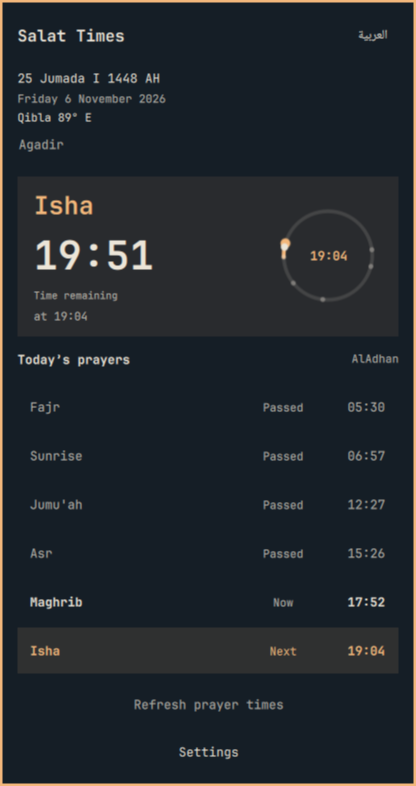
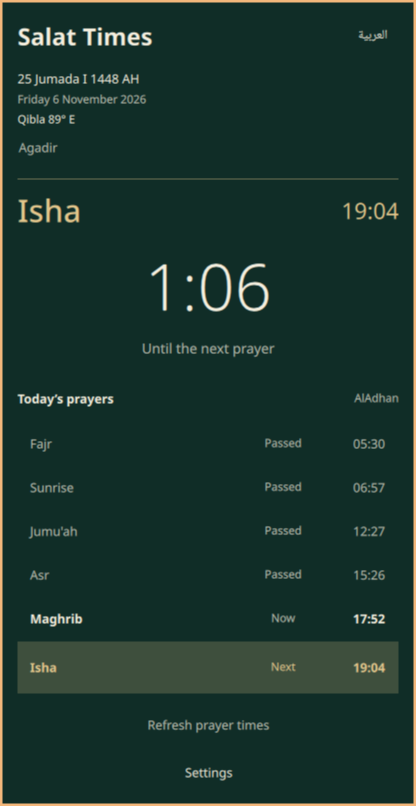
Publish Noor campaign cover, bilingual previews and worldwide setup documentation

diff --git a/DESIGN.md b/DESIGN.md
@@ -1,138 +1,140 @@
 ---
-name: Salat Times
-description: Theme-following native prayer timetable for Omarchy
+name: Salat Times · Noor
+description: A native prayer window in emerald, ivory and gold
 colors:
-  foreground: "bar ? bar.foreground : Color.foreground"
-  accent: "Color.accent"
-  muted: "Qt.rgba(root.contentForeground.r, root.contentForeground.g, root.contentForeground.b, 0.76)"
-  hero-surface: "Qt.rgba(root.accent.r, root.accent.g, root.accent.b, 0.09)"
-  next-surface: "Qt.rgba(root.accent.r, root.accent.g, root.accent.b, 0.12)"
+  background: 'root.noor ? "#102D27" : Color.popups.background'
+  foreground: 'root.noor ? "#F5EFDF" : (bar ? bar.foreground : Color.foreground)'
+  accent: 'root.noor ? "#E3C68C" : Color.accent'
+  muted: 'Qt.rgba(root.contentForeground.r, root.contentForeground.g, root.contentForeground.b, 0.76)'
+  hairline: 'Qt.rgba(root.accent.r, root.accent.g, root.accent.b, 0.45)'
+  next-surface: 'Qt.rgba(root.accent.r, root.accent.g, root.accent.b, root.salat && root.salat.imminent ? 0.22 : 0.12)'
 typography:
   display:
-    fontFamily: "bar ? bar.fontFamily : Style.font.family"
-    fontSize: "Style.space(38)"
-    fontWeight: "Font.DemiBold"
+    fontFamily: '"Noto Sans"'
+    fontSize: 'Style.space(62)'
+    fontWeight: 'Font.Light'
   prayer-name:
-    fontFamily: "bar ? bar.fontFamily : Style.font.family"
-    fontSize: "Style.space(24)"
-    fontWeight: "Font.Bold"
+    fontFamily: 'root.arabic ? "Noto Kufi Arabic" : "Noto Sans"'
+    fontSize: 'Style.space(30)'
+    fontWeight: 'Font.DemiBold'
+  prayer-start:
+    fontFamily: '"Noto Sans"'
+    fontSize: 'Style.space(22)'
   heading:
-    fontFamily: "bar ? bar.fontFamily : Style.font.family"
-    fontSize: "Style.font.heading"
-    fontWeight: "Font.Bold"
+    fontFamily: 'root.arabic ? "Noto Kufi Arabic" : "Noto Sans"'
+    fontSize: 'Style.space(23)'
+    fontWeight: 'Font.Bold'
   body:
-    fontFamily: "bar ? bar.fontFamily : Style.font.family"
-    fontSize: "arabic ? Math.max(Style.font.body, Style.space(14)) : Style.font.body"
+    fontFamily: 'root.arabic ? "Noto Sans Arabic" : "Noto Sans"'
+    fontSize: 'root.arabic ? Math.max(Style.font.body, Style.space(15)) : Style.font.body'
   body-small:
-    fontFamily: "bar ? bar.fontFamily : Style.font.family"
-    fontSize: "arabic ? Math.max(Style.font.bodySmall, Style.space(12)) : Style.font.bodySmall"
-  caption:
-    fontFamily: "bar ? bar.fontFamily : Style.font.family"
-    fontSize: "Style.font.caption"
+    fontFamily: 'root.arabic ? "Noto Sans Arabic" : "Noto Sans"'
+    fontSize: 'root.arabic ? Math.max(Style.font.bodySmall, Style.space(12)) : Style.font.bodySmall'
+  countdown-caption:
+    fontFamily: 'root.arabic ? "Noto Sans Arabic" : "Noto Sans"'
+    fontSize: 'Style.space(13)'
 rounded:
-  row: "Style.cornerRadius"
+  row: 'Style.cornerRadius'
 spacing:
-  tight: "Style.space(2)"
-  inline: "Style.space(4)"
-  control: "Style.space(6)"
-  group: "Style.space(8)"
-  row: "Style.space(10)"
-  section: "Style.space(12)"
-  stack: "Style.space(14)"
-  inset: "Style.space(16)"
+  tight: 'Style.space(2)'
+  inline: 'Style.space(4)'
+  control: 'Style.space(6)'
+  group: 'Style.space(8)'
+  row: 'Style.space(10)'
+  section: 'Style.space(12)'
+  stack: 'Style.space(14)'
 components:
-  next-prayer-surface:
-    backgroundColor: "{colors.hero-surface}"
-    rounded: "{rounded.row}"
-    height: "Style.space(154)"
-    padding: "Style.space(16)"
   prayer-row:
-    textColor: "{colors.foreground}"
-    rounded: "{rounded.row}"
-    height: "Style.space(44)"
-    padding: "0 Style.space(12)"
+    textColor: '{colors.foreground}'
+    rounded: '{rounded.row}'
+    height: 'Style.space(40)'
+    padding: '0 Style.space(12)'
   prayer-row-next:
-    backgroundColor: "{colors.next-surface}"
-    textColor: "{colors.accent}"
-    rounded: "{rounded.row}"
-    height: "Style.space(44)"
-    padding: "0 Style.space(12)"
-  day-dial:
-    size: "Style.space(104)"
-  stepper-value:
-    width: "Style.space(36)"
-    height: "Style.space(22)"
+    backgroundColor: '{colors.next-surface}'
+    textColor: '{colors.accent}'
+    rounded: '{rounded.row}'
+    height: 'Style.space(50)'
+    padding: '0 Style.space(12)'
 ---
 
 # Design System: Salat Times
 
 ## Overview
 
-**Creative North Star: "The daily prayer instrument"**
+**Creative North Star: "A moment of light"**
 
-A compact native prayer timetable that belongs to the current Omarchy desktop. The next prayer and explicit time remaining lead inside a tonal rectangle; a small adjacent day ring provides context. Its arc represents the current prayer window. The theme supplies the font, foreground, surface, and accent.
+Noor expresses the prayer window through generous numerals, intentional Arabic typography and a clear timetable. Deep emerald grounds warm ivory text; brass gold identifies the next prayer and its start. The centered light countdown is the primary answer, with a short caption explaining its meaning.
+
+The implementation is native Qt Quick / Quickshell on Omarchy. Noor is the persisted default appearance; System colors are an explicit alternative. Campaign direction uses a sculptural mihrab and sunlight, separate from the working interface. The user rejected the former ring and generic screenshot-on-mosque cover.
 
 **Key Characteristics:**
 
-- Theme-bound native typography and color
-- Aligned times with explicit next-prayer emphasis
-- Flat tonal surfaces and restrained motion
-
-These tokens are native QML expressions, evaluated by Omarchy/Quickshell. They are intentionally not CSS literals. `Style.space` and `Style.duration` retain desktop scale and motion preferences; their arguments are base logical units, not resolved device pixels. `PRODUCT.md` records the approved direction; `.impeccable/salat-surface.md` records the surface composition.
+- Typographic hierarchy with distinct Arabic heading and body families
+- Emerald, ivory and gold by default; optional live System colors
+- Clear aligned timetable with a taller next-prayer row
+- Flat native surfaces and restrained motion
 
 ## Colors
 
 ### Primary
 
-The live accent marks the next prayer name, next row, elapsed day arc, and next dial point. The next-prayer surface uses a quiet accent wash; the timetable’s next row uses a stronger wash that intensifies when prayer is imminent.
+**Brass gold** marks the next prayer, exact start, divider and next timetable row. The selected row uses a translucent wash that intensifies when prayer is imminent.
 
 ### Neutral
 
-Foreground follows the hosting bar with the Commons fallback. Muted foreground identifies dates, source, secondary labels, and helper copy. The panel surface and shared-control states belong to `qs.Ui`; retain their theme bindings rather than extracting a snapshot palette.
+**Deep emerald** is the default panel ground; **warm ivory** is the reading foreground. Muted foreground carries secondary dates, source, helper copy and passed prayers. Country and quick-city popups explicitly bind their background to the panel and their border to the accent.
 
-**The Theme Rule.** Preserve dynamic theme expressions; a screenshot’s colors are evidence of one theme, not a new palette.
+**The Appearance Rule.** Preserve the Noor/System conditional bindings. Noor is an authored palette; System mode evaluates the current Omarchy colors instead of a screenshot palette.
 
 ## Typography
 
-Use the hosting bar’s font family with `Style.font.family` as fallback. The countdown uses the display role, horizontally fits, and may shrink to `Style.space(22)`. The prayer name, heading, current and next timetable rows, and dial time are bold. The explicit “Time remaining” caption explains the countdown; exact start time sits beneath it. Standard body weights remain native defaults. Arabic body and small text have the documented minimum sizes; captions retain `Style.font.caption`.
+Arabic headings use Noto Kufi Arabic and body labels use Noto Sans Arabic. English uses Noto Sans; countdown, exact start and timetable numerals always use Noto Sans. The bar uses Noto Sans Arabic in Arabic and the host bar family in English.
 
-`PlainLabel` explicitly uses `Text.PlainText` and disables mirroring. Apply reading alignment to language-bearing labels; preserve unmirrored countdown, dial time, and right-aligned timetable numerals. No custom line height, tracking, or tabular-number feature is defined.
+The display countdown is light and centered, with horizontal fit down to `Style.space(34)`. The next-prayer name is demibold; the panel title is bold. The caption reads “Until the next prayer” with a tomorrow qualifier when applicable. Current and next timetable names and times are bold; other rows retain native default weights. Arabic body and small-text minimum sizes are recorded in frontmatter. Native caption and smaller helper styles continue to use `Style.font.caption` and `Style.font.bodySmall` where implemented.
+
+**The Numeric Rule.** Keep schedule numerals right-aligned and unmirrored; apply reading alignment to language-bearing labels. Do not substitute a decorative clock face for the countdown.
 
 ## Layout
 
-`KeyboardPanel` fits a preferred content width of `Style.space(400)` and fits height to the available screen. The column uses stack spacing; overview uses the same rhythm. Header and settings sections use section spacing. Vertical scrolling appears only when content overflows; horizontal scrolling is disabled.
+`KeyboardPanel` prefers `Style.space(400)` content width and fits height to the available screen. Vertical scrolling appears on overflow; horizontal scrolling is disabled. `Style.space` arguments are logical base units, not fixed physical pixels or web breakpoints.
 
-The next-prayer surface is a `Style.space(154)` high rounded rectangle. A row with inset spacing places the prayer name, countdown, “Time remaining” caption, and exact start beside a `Style.space(104)` day dial. The hero row deliberately disables mirroring; the dial center shows the exact start. Schedule rows use tight spacing, horizontal section padding, row gaps, a `Style.space(64)` state column, and a fixed `Style.space(56)` time column. Names elide before times. Qibla sits with the date. A Ramadan suhoor or iftar line appears only in that month. A full-width refresh action follows the timetable and any refresh error; its label reports fetching and it is disabled offline or while fetching. Settings replace the overview and retain the header and settings action. Settings use worldwide city search with searching, no-match and connection feedback; a Hijri calendar stepper permits ±2 days. Persistent latitude and longitude labels sit over equal-width unmirrored fields, followed by a validated Apply coordinates action that works offline and a desktop-timezone note.
+The first view stacks title/language, Hijri and Gregorian dates, Qibla and location, then the typographic prayer window. A one-unit gold hairline precedes a name/start row. The centered countdown and explanatory caption follow, then today’s six timetable entries, source, refresh and settings actions. The hero has no card fill, dial or ring. Schedule names elide before the fixed `Style.space(64)` state and `Style.space(56)` time columns.
+
+Settings replace the overview while retaining title and settings action. Worldwide setup leads with country and offline quick-city selectors, followed by method suggestions and manual search. Morocco controls appear only when the country filter is empty or MA. Lower sections retain Hijri adjustment, coordinates, calculation and reminders.
 
 ## Elevation & Depth
 
-Local content is flat and tone-separated. No local shadow or glow is defined. Panel framing, elevation, native focus, hover, and selected-control treatment are inherited from `qs.Ui`, not recreated here.
+Local content is flat. The hairline and translucent next-row fill organize information without local shadows or glow. Native panel framing, focus, hover and control states belong to `qs.Ui`. The background rectangle extends across the panel padding. Country and city dropdown popups carry matching surface and accent border bindings.
 
 ## Shapes
 
-Timetable highlights follow `Style.cornerRadius`. The day dial is a true circle: radius is half its smaller dimension minus `Style.space(10)`; stroke is `Style.space(3)`. Its neutral track uses foreground alpha 0.14. Normal points use alpha 0.8, sunrise 0.5; next and ordinary point radii are `Style.space(4.5)` and `Style.space(2.5)`, with a `Style.space(3)` current-position point.
+Timetable highlights follow `Style.cornerRadius`; ordinary rows are compact and the next row is taller. The prayer window is an open typographic composition separated by a straight hairline. There is no circular visual component.
 
 ## Components
 
-- **Prayer rows:** six aligned timetable entries; current and next use bold name/time; next additionally uses accent and tonal fill. A fixed state column shows the model’s localized status label. Passed rows use muted text. The next fill changes from alpha 0.12 to 0.22 when imminent. The source label remains visible beside the schedule heading.
-- **Next-prayer surface:** flat accent wash, native rounded corners, large countdown with horizontal fit and explicit caption. It carries the primary answer without waiting for motion.
-- **DayDial:** actual 24-hour positions, clockwise from midnight at the top. Center shows the next start time; elapsed arc follows the current prayer window. Repaint only on data, size, or theme changes; no animation timer.
-- **Native controls:** language and settings use `Ui.Button`; settings reuse `Toggle`, `SearchableDropdown`, `Dropdown`, `ButtonGroup`, `TextField`, and `PanelSectionHeader` from `qs.Ui`. Preserve shared interaction styling and focus behavior. Opening settings focuses its first toggle; closing restores panel keyboard focus.
-- **StepperRow:** two focusable `PanelActionButton` controls surround a centered bold body-size value; inline spacing. Positive correction displays an explicit plus sign.
-- **BarWidget:** shared `WidgetButton`, horizontal margin and vertical padding both 8.75. Imminent prayer sets its native active state. Left click opens the panel, right cycles style, middle switches language.
+- **Prayer window:** gold next name and exact start above the large light countdown; centered explanatory caption beneath. Data is visible immediately when the panel opens.
+- **Prayer rows:** six aligned entries with localized model status. Next uses accent, bold text, taller height and tonal fill; current uses bold text; passed rows use muted text. A preparation label replaces an empty timetable.
+- **Refresh:** full-width native button reports fetching, disables while fetching or offline, and sits after any refresh error.
+- **Worldwide location:** searchable 249-country dataset and 23 offline quick-city presets localized in English and Arabic. Country selection filters presets and subsequent online search. Selecting a preset commits coordinates and localized city/country text. Regional-method suggestions are enabled by default; choosing a method manually disables automatic selection. Online search reports searching, no matches and connection failure, with keyboard selection and Save/Cancel actions.
+- **Contextual Habous:** section, official-source toggle and searchable Habous cities are scoped to empty/MA country filters; city selection also depends on Habous being enabled.
+- **Hijri and coordinates:** ±2-day stepper with civil-calendar explanation; persistent latitude and longitude labels over equal-width unmirrored fields, validated offline Apply coordinates action, and desktop-timezone note.
+- **Native settings:** reuse `Button`, `Toggle`, `SearchableDropdown`, `Dropdown`, `ButtonGroup`, `TextField`, `PanelSectionHeader` and `StepperRow`. Shared interaction styling remains native. Opening settings focuses the online toggle; closing restores panel keyboard focus.
+- **Bar widget:** shared `WidgetButton` with horizontal margin and vertical padding of 8.75; imminent prayer uses its native active state. Left click opens, right cycles bar style, middle switches language. Tooltip carries next prayer, remaining time, Hijri date and location.
 
-Settings opacity has a `NumberAnimation` using `Style.duration(160)` and `Easing.OutCubic`; visibility and height switch with state, so do not assume a fully animated collapse. Data is immediately visible when the panel opens. Shared panel/control motion remains owned by Omarchy.
+Settings opacity uses `NumberAnimation` with `Style.duration(160)` and `Easing.OutCubic`. Visibility and height switch immediately; do not describe this as an animated drawer expansion.
 
 ## Do's and Don'ts
 
 ### Do:
 
-- Do preserve live Omarchy theme bindings.
-- Do keep Arabic labels readable and numeric times unmirrored.
-- Do show the next prayer and its exact time before settings.
+- Do preserve Noor as default and System colors as an explicit alternative.
+- Do use the implemented Arabic heading/body families and Noto Sans numerals.
+- Do keep country selection and offline city setup visible before contextual Morocco controls.
+- Do keep native Qt Quick controls and Omarchy scale bindings.
 
 ### Don't:
 
-- Don’t introduce a fixed palette or bundled display font.
-- Don’t add glow, ornamental clock motion, or a reveal that delays prayer data.
-- Don’t replace native shared controls with web approximations.
+- Don’t restore the rejected ring or a decorative clock face.
+- Don’t put screenshot-on-mosque artwork inside the working interface.
+- Don’t describe this native Linux panel as a web or mobile application.
+- Don’t add glow or a reveal that delays prayer information.

diff --git a/README.md b/README.md
@@ -1,6 +1,6 @@
 # Salat Times for Omarchy
 
-Prayer times for the Omarchy bar: the next salah, the time remaining, the Hijri date, qibla, and the full day. Habous tables, AlAdhan, and offline calculation stay available when you are online or not.
+Prayer times for the Omarchy bar, with the Noor emerald-and-ivory appearance, dedicated Arabic typography, and setup for 249 countries and territories: the next salah, time remaining, Hijri date, Qibla, and the full day. Habous tables, AlAdhan, and offline calculation stay available when you are online or not.
 
 ![Salat Times panel](preview.png)
 
@@ -29,13 +29,13 @@ omarchy bar move abdelhakim.salat --section centerEnd
 - Middle-click, the language button, or `A` switches Arabic and English.
 - `S` opens settings; Tab moves through settings controls and Escape returns to the timetable.
 - `E` edits a location; `M` cycles calculation methods; `B` cycles bar styles.
-- The countdown leads a compact next-prayer surface. A small day dial places prayer markers clockwise from midnight and traces the current prayer window.
+- The next-prayer name and exact start lead a large typographic countdown. There is no ring or clock dial. Noor uses deep emerald, warm ivory and gold; select System colors in Settings to follow the desktop palette.
 - Friday Dhuhr reads as Jumu'ah. Rows mark passed, now, and next. In Ramadan, a line gives suhoor or iftar.
 - Qibla is the bearing from your coordinates to the Kaaba.
 
 ## Settings
 
-Choose a Moroccan Habous city, use your Omarchy weather location, search worldwide with **city, country**, or enter latitude and longitude without a network connection. Selecting an international search result switches away from Habous. Search results identify the region and country; the location only changes when you select a result. All clocks and countdowns use your desktop timezone, including when you explore a location abroad. Change your system timezone when travelling. Calculation methods include Morocco, MWL, Egypt, ISNA, Makkah, Karachi, Tehran, Jafari, Algeria, and Tunisia, with Standard or Hanafi Asr calculation and a minute correction. Reminders support notifications, a dismissible overlay, or silent mode, with optional advance reminders.
+Select a **Country** from 249 countries and territories, then a **Quick city**, or use **Search any city**. There are 23 built-in city presets, including Riyadh, Makkah, Medina, Cairo, Alexandria, New York, Chicago, Los Angeles, London, Toronto, Dubai and Jakarta; they work offline. Country-filtered search finds further towns and cities online. You can also follow your Omarchy weather location, select a Moroccan Habous city, or enter latitude and longitude offline. Selecting an international search result switches away from Habous. Search results identify the region and country; the location only changes when you select a result. All clocks and countdowns use your desktop timezone, including when you explore a location abroad. Change your system timezone when travelling. Country-based method suggestions use Umm Al-Qura for Saudi Arabia, the Egyptian General Authority for Egypt, and ISNA for the USA/Canada. They are starting points; select a method manually to follow your mosque. Methods also include Morocco, MWL, Karachi, Tehran, Jafari, Algeria, Tunisia, Gulf, Kuwait, Qatar, Singapore, France, Turkey, Russia, Dubai, Malaysia and Indonesia, with Standard or Hanafi Asr calculation and a minute correction. Reminders support notifications, a dismissible overlay, or silent mode, with optional advance reminders.
 
 **Hijri date:** the Islamic civil calendar replaces the previous incorrect conversion. Use the separate −2 to +2 day adjustment to align with your local moon-sighting authority. This is a calculated date, not an official sighting feed. The same adjustment controls the Ramadan fasting hint. Dates change at civil midnight.
 
@@ -70,7 +70,7 @@ QML uses virtual `qs` imports provided by Quickshell. Check runtime loading in t
 
 ## License
 
-MIT; see [LICENSE](LICENSE). The offline engine uses astronomical prayer-time formulas in the PrayTimes tradition. The English and Arabic previews are actual desktop captures. The marketplace mosque backdrop is AI-generated with OpenAI ImageGen; its generation prompt is recorded in `artwork/README.md`. No font files are bundled.
+MIT; see [LICENSE](LICENSE). The offline engine uses astronomical prayer-time formulas in the PrayTimes tradition. Arabic body text uses Noto Sans Arabic, with Noto Kufi Arabic for headings. English and numeric text use Noto Sans. These families are part of the standard Noto font collection; Qt falls back to an installed font when unavailable. The English and Arabic previews are actual desktop captures. The marketplace mosque backdrop is AI-generated with OpenAI ImageGen; its generation prompt is recorded in `artwork/README.md`. No font files are bundled.
 
 ## Questions
 
@@ -91,6 +91,10 @@ Yes. Disable online tables and enter your coordinates in Settings. The local eng
 ```sh
 omarchy-shell abdelhakim.salat.widget settings
 omarchy-shell salat status
+omarchy-shell salat theme noor
+omarchy-shell salat language ar
+# Open Saudi quick-city selection:
+omarchy-shell abdelhakim.salat.widget country SA
 ```
 
 ## Discover and contribute
@@ -98,3 +102,7 @@ omarchy-shell salat status
 [Omarchy plugin marketplace](https://plugins.omarchy.org/plugin.html?id=abdelhakim.salat) · [Report a bug](https://github.com/Abdelhakim-Baalla/omarchy-salat-times/issues) · [Changelog](CHANGELOG.md)
 
 Salat Times is an open-source Muslim prayer-time plugin for Omarchy Linux and its Quickshell desktop bar. It includes salah / salat times, adhan reminders, Arabic and English, a Hijri calendar, Qibla direction, and Ramadan suhoor and iftar information.
+
+## Data sources
+
+Country codes follow ISO 3166-1 (`iso-codes`); English and Arabic country names use ICU display names. Built-in city coordinates were retrieved from GeoNames through the [Open-Meteo geocoding API](https://open-meteo.com/en/docs/geocoding-api) on 6 November 2026. Calculation method identifiers and angles follow [AlAdhan's method list](https://api.aladhan.com/v1/methods). Search availability depends on the geocoder's coverage.

diff --git a/artwork/README.md b/artwork/README.md
@@ -1,11 +1,7 @@
-# Marketplace artwork
+# Noor marketplace cover
 
-The cover is generated using the built-in OpenAI ImageGen tool, then reviewed against actual plugin screenshots. The architectural background is an AI-generated Moroccan mosque courtyard, not a photograph of a named mosque. The English and Arabic preview PNGs at the project root are direct captures of the installed Omarchy plugin, cropped to its panel.
+The 1.4 cover follows **A moment of light**: a sculptural limestone mihrab, a precise shaft of afternoon sunlight, emerald typography and warm ivory. It is campaign artwork; the separate English and Arabic preview images show the actual plugin.
 
-## Initial prompt
+Generated with the built-in OpenAI ImageGen tool. The exact generation prompt is in [noor-prompt.txt](noor-prompt.txt) and embedded in the cover PNG. The architecture is generated, not a photograph of a named building. No stock photograph or bundled font asset is used.
 
-Use case: compositing. Edit target: the supplied Salat Times marketplace thumbnail. Preserve its 1600x900 landscape composition, exact title and supporting copy on the left, and readable plugin screenshot on the right. Change only the plain dark background and large flat circle into a magnificent photographic Moroccan mosque courtyard at blue hour, authentic carved arches and one elegant minaret, warm amber lantern light and subtle reflections on stone, deep charcoal navy atmosphere. Keep background subdued and dark beneath all copy so the existing warm peach title and cream text remain exceptionally legible. Sophisticated editorial architectural photography, realistic materials, restrained cinematic lighting, no extra text, no invented logos, no people, no watermark. The existing screenshot is a reference and must retain crisp text, proportions and rectangular edges.
-
-## Final prompt
-
-Use case: compositing. Final marketplace cover for Salat Times. Image 1 is the edit target: preserve exactly its magnificent Moroccan mosque blue-hour courtyard background, warm lantern lighting, carved arches, minaret, left-side title 'Salat Times', subtitle 'The next prayer, inside the day.' and feature line 'Qibla · Hijri · Habous · Adhan'. Image 2 is the CURRENT REAL PLUGIN SCREENSHOT, to replace the obsolete screenshot panel on the right in image 1. Insert image 2 as an exact, crisp, flat rectangular screenshot with its peach border intact: preserve all text, the corrected date '25 Jumada I 1448 AH', new compact countdown-and-small-dial composition, all prayer rows, refresh action and Settings. Do not redraw or invent screenshot content. Fit screenshot fully vertically with comfortable margins, aligned near the right edge like image 1. Keep title left large, mosque center visible. Landscape 16:9 composition. This is a refined architectural editorial product thumbnail, readable at small size. No extra text or watermark.
+The preview PNGs are direct captures of the running Omarchy plugin, cropped to its panel boundary. Their embedded metadata records capture provenance.

diff --git a/.impeccable/salat-surface.md b/.impeccable/salat-surface.md
@@ -1,8 +1,9 @@
-# Salat panel · Operate
+# Noor Salat panel · Operate
+
 ## Direction contract
-THESIS: Today’s prayer timetable, readable at a glance, with an actual 24-hour orbit as its signature; no glowing clock ornament.
-OWN-WORLD: Follow the user-selected Omarchy font, foreground, surface and accent. Flat tone-separated surfaces, aligned numerals, compact native controls.
-STORY: Identify next prayer, time remaining, exact start, today’s six times, and active data source; open settings only when needed.
-FIRST VIEWPORT: 400 logical pixel panel. Product and language header, dates, qibla and location. A 154px accent-tinted next-prayer surface leads with a 38px countdown and a 104px day dial beside it. Six 44px timetable rows, source label, refresh and settings actions. Settings offer global search, Hijri adjustment and offline coordinates with native controls.
-FORM: Theme-bound daily timetable, redesigned with the user’s explicit stronger-identity choice. Code-led native Operate surface; seed:768327f5ec0acea6. Native affordances and accurate time information govern composition.
+THESIS: A prayer window expressed through typography and a clear timetable. The user explicitly rejected the ring and generic screenshot-on-mosque campaign.
+OWN-WORLD: Noor uses deep emerald #102D27, warm ivory #F5EFDF and brass gold #E3C68C. Noto Kufi Arabic headings and Noto Sans Arabic body text provide intentional Arabic typography. System colors remain optional.
+STORY: Read the next prayer, exact start and remaining time; check today’s timetable; select a country and city without a Morocco-first assumption.
+FIRST VIEWPORT: A native 400-unit panel with title/language, dates/Qibla/location, a gold hairline, next prayer and start, centered 62-unit light countdown, a short meaning label, six timetable rows and refresh/settings actions. No circular visualizations.
+FORM: Native code-led Operate interface; the user's explicit rejection of the ring governs this replacement. Campaign artwork is a sculptural mihrab cut by sunlight, with oversized emerald title on ivory. seed:768327f5ec0acea6.
 FINISH: unreviewed and undocumented is unfinished; this build ends with the finish review, the verdict, DESIGN.md, and every shipping raster carrying its provenance

diff --git a/PRODUCT.md b/PRODUCT.md
@@ -11,7 +11,7 @@ Omarchy users checking the next prayer and today’s prayer schedule at a glance
 Preserve Arabic/English, Hijri and Gregorian dates, Habous tables, calculated fallback, location search, calculation methods, Asr madhab, time correction, reminders, bar styles, and keyboard controls. Keep the existing QML and JavaScript stack.
 
 ## Brand commitments
-User approved following the current Omarchy theme, clear prayer times, elegant typography, and subtle motion. Preserve all existing features.
+The user rejected the ring, generic campaign imagery and inherited Arabic typography. Noor provides an emerald/ivory/gold identity, deliberate Arabic fonts and a ring-free countdown. System colors remain available. Prioritize worldwide country/city setup, clear prayer times and restrained native motion. Preserve all existing features.
 
 ## Operating context
 A compact bar popover used frequently throughout the day. Settings are secondary. Prepare a public repository and marketplace submission.

diff --git a/CHANGELOG.md b/CHANGELOG.md
@@ -1,5 +1,16 @@
 # Changelog
 
+## 1.4.0
+
+- Replace the ring with a typographic next-prayer layout and remove the unused dial component.
+- Add Noor emerald, ivory and gold appearance, plus an optional System colors mode.
+- Use Noto Sans Arabic for Arabic body text, Noto Kufi Arabic headings and Noto Sans numerals; localize the Gregorian date.
+- Add a searchable English/Arabic list of 249 countries and territories, filtered city search and 23 offline city presets.
+- Suggest regional methods for Saudi Arabia, Egypt, USA/Canada and other supported conventions, with manual override.
+- Expand offline/API methods for Gulf, Kuwait, Qatar, Singapore, France, Turkey, Russia, Dubai, Malaysia and Indonesia.
+- Keep Morocco-only controls contextual; add direct country-to-city selection IPC.
+- Replace the marketplace cover with the Noor architectural campaign artwork.
+
 ## 1.3.0
 
 - Redesigned next-prayer surface with a prominent countdown, compact day dial, and taller timetable rows.
